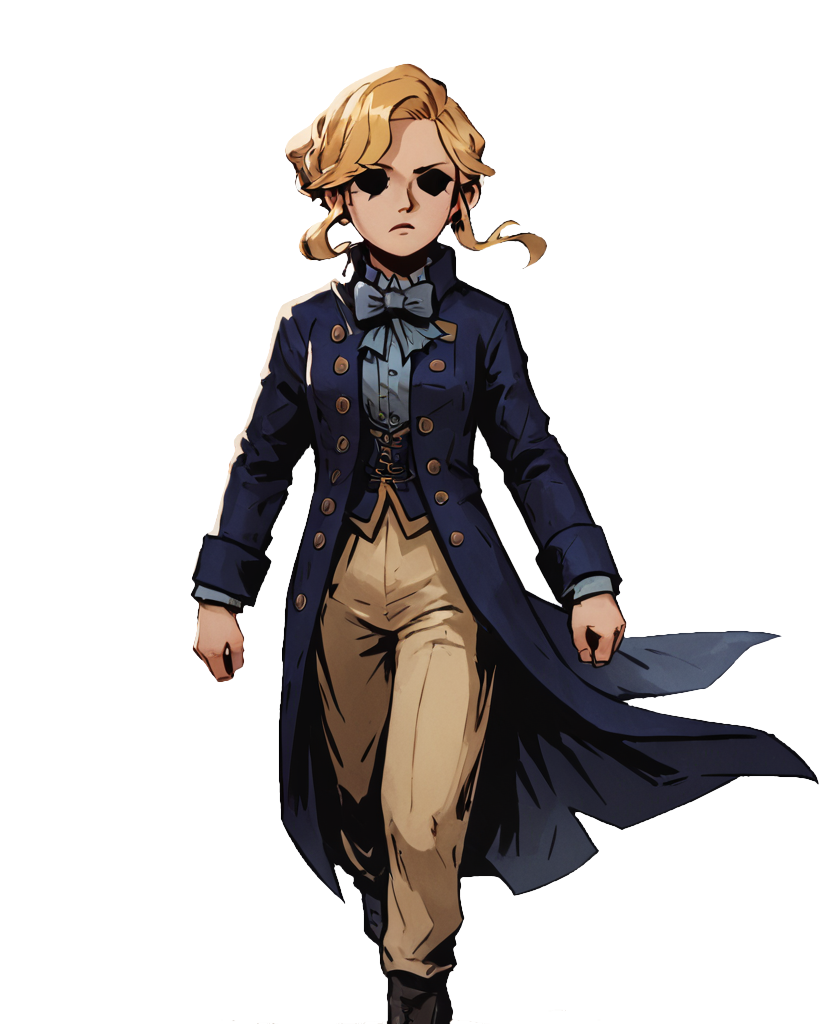
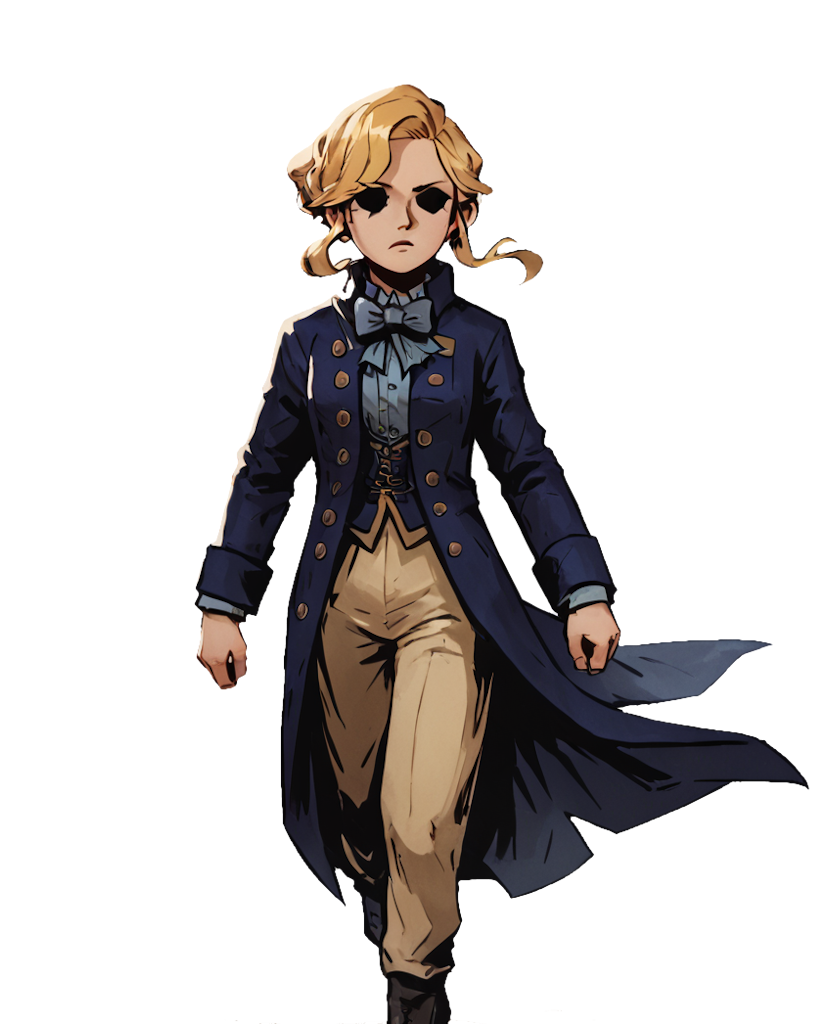
Character hovering works

Changed region(s): [[0.2188, 0.0625, 1.0, 1.0]]

diff --git a/static/js/dungeon.js b/static/js/dungeon.js
@@ -4,15 +4,27 @@ import { elementManager } from './elementManager.js';
 
 export function initializeDungeonView() {
     const dungeonView = elementManager.get('dungeonView');
-    const dungeonCharacters = dungeonView.querySelector('.dungeon-characters');
+    const dungeonCharactersContainer = dungeonView.querySelector('.dungeon-characters-container');
+    const canvas = document.getElementById('dungeon-canvas');
+    const ctx = canvas.getContext('2d');
 
-    // Create character slots
-    for (let i = 0; i < 4; i++) {
-        const characterSlot = document.createElement('div');
-        characterSlot.classList.add('dungeon-character');
-        characterSlot.setAttribute('data-position', i);
-        dungeonCharacters.appendChild(characterSlot);
-    }
+
+    const characters = dungeonCharactersContainer.querySelectorAll('.dungeon-character');
+    characters.forEach(char => {
+        char.onload = function() {
+            canvas.width = this.width;
+            canvas.height = this.height;
+            ctx.clearRect(0, 0, canvas.width, canvas.height);
+            ctx.drawImage(this, 0, 0, canvas.width, canvas.height);
+            
+            const imageData = ctx.getImageData(0, 0, canvas.width, canvas.height);
+            char.imageData = imageData;
+        }
+    });
+
+    // Set up event listeners for the container
+    dungeonCharactersContainer.addEventListener('mousemove', handleInteraction);
+    dungeonCharactersContainer.addEventListener('click', handleInteraction);
 
     // Subscribe to state changes
     subscribeToState(updateDungeonView);
@@ -23,36 +35,59 @@ export function updateDungeonView() {
     const dungeonTeam = state.dungeonTeam || [];
     const dungeonCharacters = elementManager.get('dungeonView').querySelectorAll('.dungeon-character');
 
-    dungeonCharacters.forEach((slot, index) => {
-        const characterTitle = dungeonTeam[index];
+    const reversedTeam = [...dungeonTeam].reverse();
+
+    dungeonCharacters.forEach((char, index) => {
+        const characterTitle = reversedTeam[index];
         const character = state.characters[characterTitle];
         if (character) {
-            slot.style.backgroundImage = `url('/graphics/default/dungeon/${character.title.toLowerCase()}0.png')`;
-            slot.onclick = () => renderCharacterDetails(character.title);
+            char.src = `/graphics/default/dungeon/${character.title.toLowerCase()}0.png`;
+            char.alt = character.name;
+            char.setAttribute('data-title', character.title);
+            
+        } 
+    });
+}
 
-            // Add character name
-            let nameElement = slot.querySelector('.character-name');
-            if (!nameElement) {
-                nameElement = document.createElement('h3');
-                nameElement.classList.add('character-name');
-                slot.appendChild(nameElement);
-            }
-            nameElement.textContent = character.name;
+function handleInteraction(e) {
+    const rect = e.currentTarget.getBoundingClientRect();
+    const x = e.clientX - rect.left;
+    const y = e.clientY - rect.top;
 
-            // Add health and mental bars
-            let barsElement = slot.querySelector('.character-bars');
-            if (!barsElement) {
-                barsElement = document.createElement('div');
-                barsElement.classList.add('character-bars');
-                barsElement.innerHTML = '<div class="health-bar"></div><div class="mental-bar"></div>';
-                slot.appendChild(barsElement);
+    let topChar = null;
+    const characters = Array.from(e.currentTarget.querySelectorAll('.dungeon-character'));
+    characters.forEach(char => {
+        const charRect = char.getBoundingClientRect();
+        const charX = x - (charRect.left - rect.left);
+        const charY = y - (charRect.top - rect.top);
+
+        if (charX >= 0 && charX < char.width && charY >= 0 && charY < char.height) {
+            const index = (Math.floor(charY) * char.width + Math.floor(charX)) * 4;
+            if (char.imageData && char.imageData.data[index + 3] > 0) {
+                topChar = char;
             }
-            barsElement.querySelector('.health-bar').style.width = `${character.status.physical * 10}%`;
-            barsElement.querySelector('.mental-bar').style.width = `${character.status.mental * 10}%`;
-        } else {
-            slot.style.backgroundImage = '';
-            slot.onclick = null;
-            slot.innerHTML = '';
+        }
+    });
+
+    if (topChar) {
+        if (e.type === 'mousemove') {
+            const index = Array.from(topChar.parentNode.children).indexOf(topChar);
+            const baseScale = getBaseScale(index);
+            const hoverScale = baseScale * 1.05;
+            topChar.style.transform = topChar.style.transform.replace(/scale\([^)]*\)/, `scale(${hoverScale})`);
+        } else if (e.type === 'click') {
+            const characterTitle = topChar.getAttribute('data-title');
+            if (characterTitle) {
+                renderCharacterDetails(characterTitle);
+            }
+        }
+    }
+
+    // Reset scale for characters not being hovered
+    characters.forEach((char, index) => {
+        if (char !== topChar) {
+            const baseTransform = getBaseTransform(index);
+            char.style.transform = baseTransform;
         }
     });
 }
@@ -67,4 +102,36 @@ export function switchToDungeonView(region) {
     document.body.style.backgroundImage = `url('/graphics/default/background/${encodeURIComponent(region)}.png')`;
 
     updateDungeonView();
+
+    // Reset character positions and scales
+    const characters = dungeonView.querySelectorAll('.dungeon-character');
+    characters.forEach((char, index) => {
+        const baseTransform = getBaseTransform(index);
+        char.style.transform = baseTransform;
+    });
+}
+
+function getBaseScale(index) {
+    switch(index) {
+        case 0:
+        case 1:
+            return 0.9;
+        case 2:
+            return 0.95;
+        case 3:
+            return 1;
+        default:
+            return 1;
+    }
+}
+
+function getBaseTransform(index) {
+    const baseScale = getBaseScale(index);
+    switch(index) {
+        case 0: return `translateX(-20%) scale(${baseScale})`;
+        case 1: return `translateX(20%) scale(${baseScale})`;
+        case 2: return `translateX(-50%) scale(${baseScale})`;
+        case 3: return `translateX(50%) scale(${baseScale})`;
+        default: return '';
+    }
 }

diff --git a/static/css/dungeon.css b/static/css/dungeon.css
@@ -1,117 +1,44 @@
 :root {
-    --character-base-height: 768px; /* Adjustable base height */
-  }
-  
-  .dungeon-view {
-    position: relative;
-    width: 100%;
-    height: 100%;
-    overflow: hidden;
-    cursor: none;
-  }
-  
-  .dungeon-characters {
-    position: absolute;
-    top: 0;
-    left: 0;
-    right: 0;
-    bottom: 0;
-    display: flex;
-    justify-content: center;
-    align-items: flex-end;
-    cursor: none;
-  }
-  
-  .dungeon-character {
-    position: absolute;
-    bottom: 0;
-    height: var(--character-base-height);
-    width: calc(var(--character-base-height) * 832 / 1024); /* Maintain aspect ratio */
-    background-size: contain;
-    background-repeat: no-repeat;
-    background-position: bottom center;
-    transition: all 0.3s ease;
-    cursor: pointer;
-    pointer-events: auto;
-    transform-origin: bottom center;
-  }
-
-  /* Base transformations */
-  .dungeon-character[data-position="0"] {
-    z-index: 4;
-    transform: translateX(-15%) scale(0.9);
-  }
-
-  .dungeon-character[data-position="1"] {
-    z-index: 2;
-    transform: translateX(-45%) scale(0.8);
-  }
-
-  .dungeon-character[data-position="2"] {
-    z-index: 3;
-    transform: translateX(15%) scale(0.8);
-  }
-
-  .dungeon-character[data-position="3"] {
-    z-index: 1;
-    transform: translateX(45%) scale(0.7);
-  }
-
-  /* Hover effects */
-  .dungeon-character[data-position="0"]:hover {
-    transform: translateX(-15%) scale(0.945); /* 0.9 * 1.05 */
-  }
-
-  .dungeon-character[data-position="1"]:hover {
-    transform: translateX(-45%) scale(0.84); /* 0.8 * 1.05 */
-  }
-
-  .dungeon-character[data-position="2"]:hover {
-    transform: translateX(15%) scale(0.84); /* 0.8 * 1.05 */
-  }
-
-  .dungeon-character[data-position="3"]:hover {
-    transform: translateX(45%) scale(0.735); /* 0.7 * 1.05 */
-  }
-
-.character-name {
-    position: absolute;
-    font-family: 'dwarvenAxe';
-    bottom: 1vh;
-    left: 50%;
-    transform: translateX(-50%);
-    text-align: center;
-    color: #fff;
-    text-shadow: 2px 2px 4px rgba(0,0,0,0.5);
-    font-size: 2vh;
-    white-space: nowrap;
+  --character-base-height: 740px; /* Adjustable base height */
 }
 
-.character-bars {
-    position: absolute;
-    bottom: 4vh;
-    left: 50%;
-    transform: translateX(-50%);
-    width: 80%;
+.dungeon-view {
+  position: relative;
+  width: 100%;
+  height: 100%;
+  overflow: hidden;
+  cursor: none;
 }
 
-.health-bar, .mental-bar {
-    height: 1vh;
-    margin-bottom: 0.5vh;
-    background-color: rgba(0,0,0,0.5);
+.dungeon-characters-container {
+  position: absolute;
+  top: 0;
+  left: 0;
+  right: 0;
+  bottom: 0;
+  display: flex;
+  justify-content: center;
+  align-items: flex-end;
+  cursor: none;
 }
 
-.health-bar::before, .mental-bar::before {
-    content: '';
-    display: block;
-    height: 100%;
-    width: 50%; /* Adjust based on actual health/mental values */
+.dungeon-character {
+  position: absolute;
+  bottom: 0;
+  height: var(--character-base-height);
+  width: calc(var(--character-base-height) * 832 / 1024); /* Maintain aspect ratio */
+  background-size: contain;
+  background-repeat: no-repeat;
+  background-position: bottom center;
+  transition: all 0.3s ease;
+  cursor: pointer;
+  pointer-events: auto;
+  transform-origin: bottom center;
 }
 
-.health-bar::before {
-    background-color: #ff4444;
-}
-
-.mental-bar::before {
-    background-color: #44ff44;
+#dungeon-canvas {
+  display: none;
+  position: absolute;
+  top: 0;
+  left: 0;
 }

diff --git a/templates/index.html b/templates/index.html
@@ -105,40 +105,13 @@
                 <div id="character-grid" class="character-grid"></div>
             </div>
             <div id="dungeon-view" class="dungeon-view" style="display: none;">
-                <div class="dungeon-characters">
-                    <div class="dungeon-character" data-position="0">
-                        <h3 class="character-name"></h3>
-                        <img class="character-portrait" src="" alt="Character Portrait">
-                        <div class="character-bars">
-                            <div class="health-bar"></div>
-                            <div class="mental-bar"></div>
-                        </div>
-                    </div>
-                    <div class="dungeon-character" data-position="1">
-                        <h3 class="character-name"></h3>
-                        <img class="character-portrait" src="" alt="Character Portrait">
-                        <div class="character-bars">
-                            <div class="health-bar"></div>
-                            <div class="mental-bar"></div>
-                        </div>
-                    </div>
-                    <div class="dungeon-character" data-position="2">
-                        <h3 class="character-name"></h3>
-                        <img class="character-portrait" src="" alt="Character Portrait">
-                        <div class="character-bars">
-                            <div class="health-bar"></div>
-                            <div class="mental-bar"></div>
-                        </div>
-                    </div>
-                    <div class="dungeon-character" data-position="3">
-                        <h3 class="character-name"></h3>
-                        <img class="character-portrait" src="" alt="Character Portrait">
-                        <div class="character-bars">
-                            <div class="health-bar"></div>
-                            <div class="mental-bar"></div>
-                        </div>
-                    </div>
+                <div id="dungeon-characters-container" class="dungeon-characters-container">
+                    <img class="character dungeon-character" id="char0" data-position="0" src="" alt="Character 0">
+                    <img class="character dungeon-character" id="char1" data-position="1" src="" alt="Character 1">
+                    <img class="character dungeon-character" id="char2" data-position="2" src="" alt="Character 2">
+                    <img class="character dungeon-character" id="char3" data-position="3" src="" alt="Character 3">
                 </div>
+                <canvas id="dungeon-canvas" style="display:none;"></canvas>
             </div>
         </div>
         <div class="right-panel">
